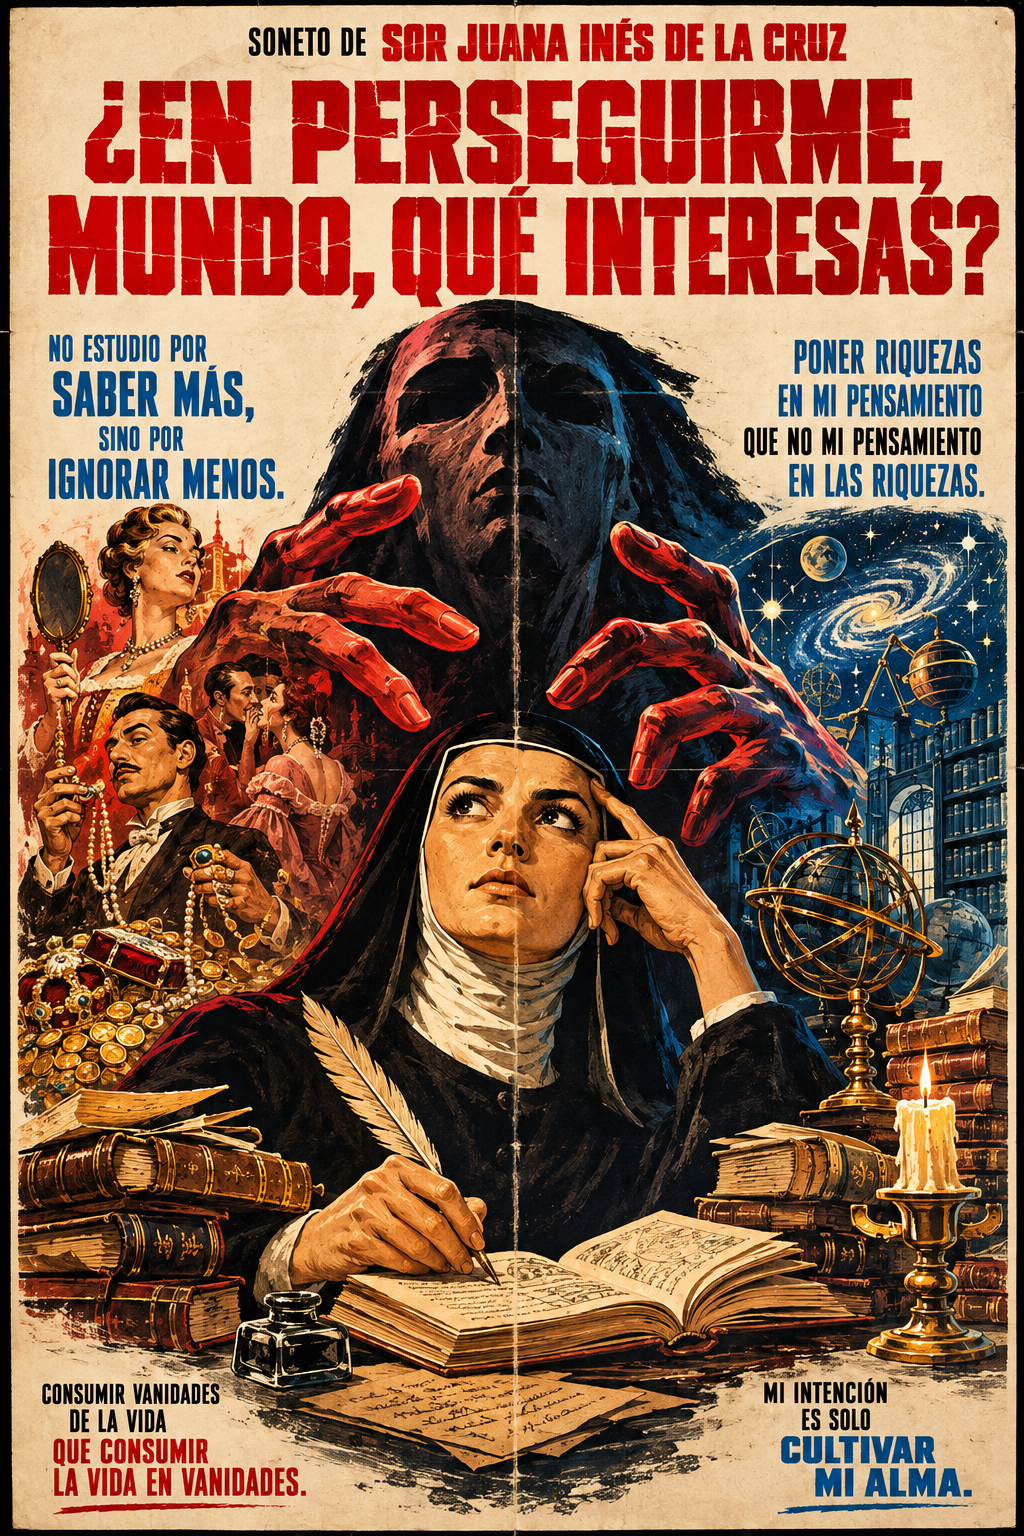
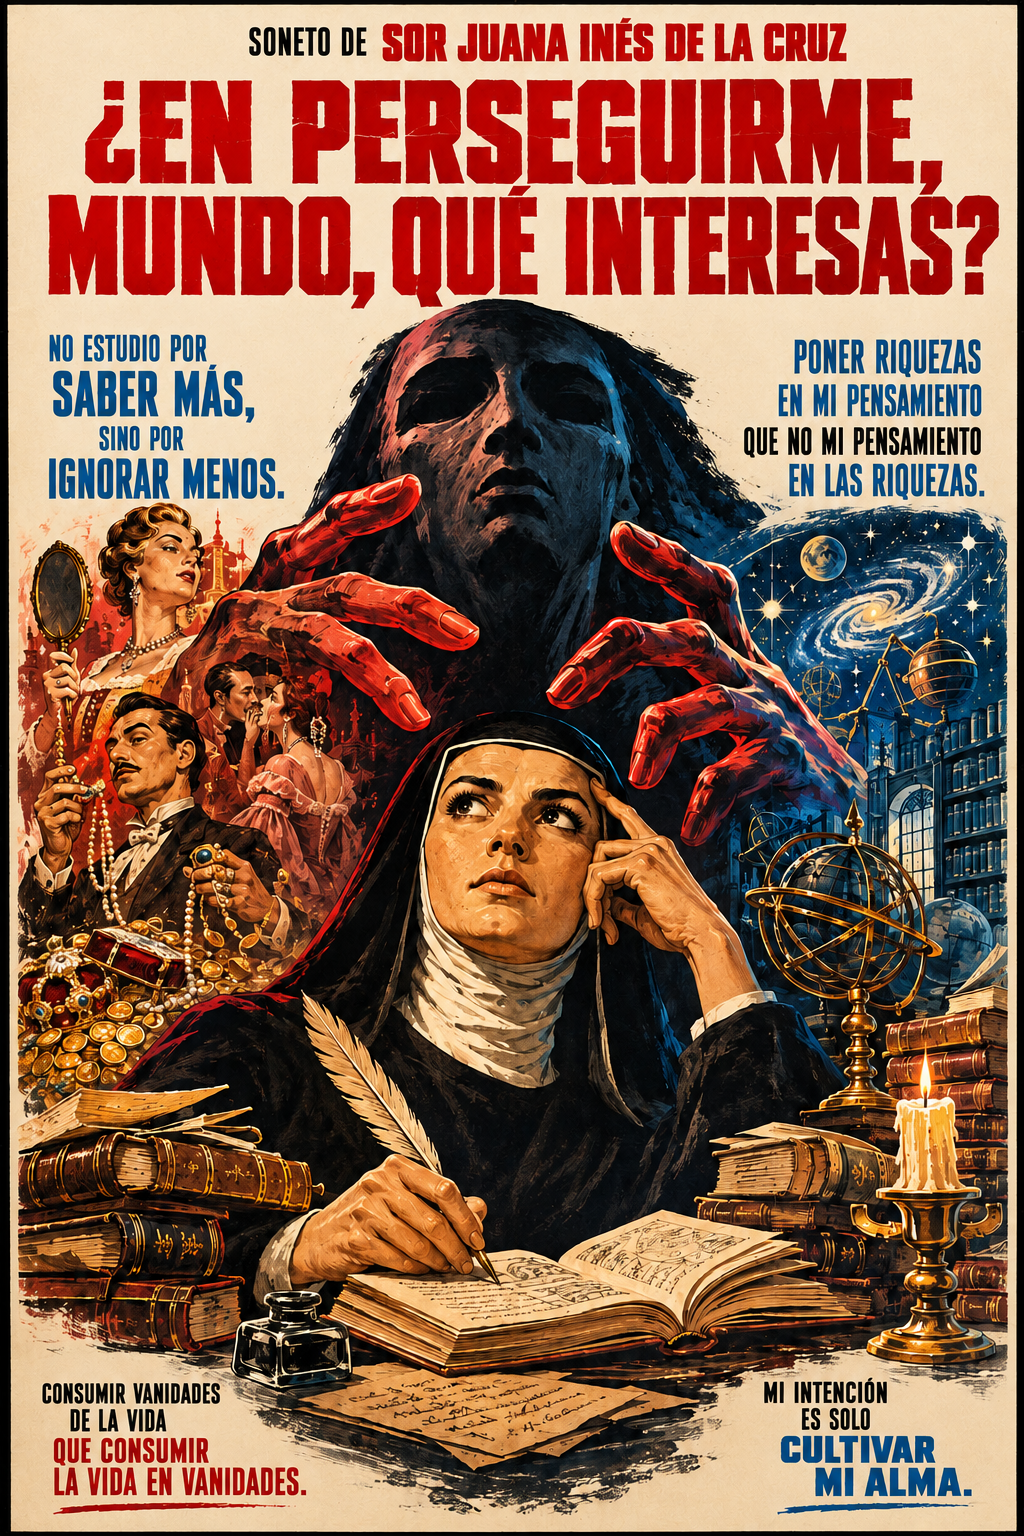
Add Juan de Mairena I & II to OLA 4, refresh six book covers
New: Juan de Mairena and Juan de Mairena II wired into ola-4-slug.html
and book-catalog.js (no detail pages yet).

Replaced cover art for Novelas ejemplares, Cartas de Jamaica, En
perseguirme mundo qué interesas, Las lenguas de diamante, Naufragios,
and Facundo — updating references on their OLA listing cards and
detail pages wherever the filename changed extension.

diff --git a/book-catalog.js b/book-catalog.js
@@ -30,7 +30,7 @@
         { file: "cantinela.png", title: "Cantinela a Lesbia", slug: "cantinela-a-lesbia" },
         { file: "carta-a-luis-de-santangel.png", title: "Carta a Luis de Santángel", slug: "carta-a-luis-de-santangel" },
         { file: "carta-atenagorica.png", title: "Carta atenagórica", slug: "carta-atenagorica" },
-        { file: "cartas-de-jamaica.jpg", title: "Cartas de Jamaica", slug: "cartas-de-jamaica" },
+        { file: "cartas-de-jamaica.png", title: "Cartas de Jamaica", slug: "cartas-de-jamaica" },
         { file: "celestina.jpg", title: "La Celestina", slug: "la-celestina" },
         { file: "comentarios.jpg", title: "Comentarios Reales de los Incas", slug: "comentarios-reales-de-los-incas" },
         { file: "conde-lucanor.jpg", title: "El Conde Lucanor", slug: "el-conde-lucanor" },
@@ -46,15 +46,17 @@
         { file: "el-perro-del-hortelano.png", title: "El perro del hortelano", slug: "el-perro-del-hortelano" },
         { file: "el-trovador.png", title: "El trovador", slug: "el-trovador" },
         { file: "en-perseguirme-mundo.png", title: "¿En perseguirme, Mundo, qué interesas?", slug: "en-perseguirme-mundo-que-interesas" },
-        { file: "facundo.jpg", title: "Facundo o Civilización y Barbarie", slug: "facundo-o-civilizacion-y-barbarie" },
+        { file: "facundo.png", title: "Facundo o Civilización y Barbarie", slug: "facundo-o-civilizacion-y-barbarie" },
         { file: "fin-de-loores-de-santos.png", title: "Fin de loores de santos", slug: "fin-de-loores-de-santos" },
         { file: "fontana-de-oro.jpg", title: "La Fontana de Oro", slug: "la-fontana-de-oro" },
         { file: "fuente-ovejuna.png", title: "Fuente Ovejuna", slug: "fuente-ovejuna" },
+        { file: "juan-de-mairena-dos.png", title: "Juan de Mairena II", slug: "juan-de-mairena-ii" },
+        { file: "juan-de-mairena.png", title: "Juan de Mairena", slug: "juan-de-mairena" },
         { file: "la-flor-de-la-playa.jpg", title: "La flor de la playa", slug: "la-flor-de-la-playa" },
         { file: "la-gallina-degollada.jpg", title: "La gallina degollada", slug: "la-gallina-degollada" },
         { file: "ladron-devoto.jpg", title: "El Ladrón Devoto", slug: "el-ladron-devoto" },
         { file: "lazarillo.jpg", title: "Lazarillo de Tormes", slug: "lazarillo-de-tormes" },
-        { file: "lenguas-diamante.jpg", title: "Las lenguas de diamante", slug: "las-lenguas-de-diamante" },
+        { file: "lenguas-diamante.png", title: "Las lenguas de diamante", slug: "las-lenguas-de-diamante" },
         { file: "los-cuatro-viajes.jpg", title: "Los cuatro viajes del almirante y su testamento", slug: "los-cuatro-viajes-del-almirante-y-su-testamento" },
         { file: "lucia-jerez.png", title: "Lucía Jerez", slug: "lucia-jerez" },
         { file: "mariana-pineda.png", title: "Mariana Pineda", slug: "mariana-pineda" },
@@ -62,7 +64,7 @@
         { file: "misericordia.png", title: "Misericordia", slug: "misericordia" },
         { file: "monja-alferez.jpg", title: "Historia de la Monja Alférez", slug: "historia-de-la-monja-alferez" },
         { file: "natural-historia-de-indias.png", title: "Sumario de la Natural Historia de las Indias", slug: "sumario-de-la-natural-historia-de-las-indias" },
-        { file: "naufragios.jpg", title: "Naufragios", slug: "naufragios" },
+        { file: "naufragios.png", title: "Naufragios", slug: "naufragios" },
         { file: "nezahualcoyotl.jpg", title: "Nezahualcóyotl", slug: "nezahualcoyotl" },
         { file: "niebla.jpg", title: "Niebla", slug: "niebla" },
         { file: "novelas-ejemplares.png", title: "Novelas ejemplares", slug: "novelas-ejemplares" },

diff --git a/Audiolibros/titulos/ola-4-slug.html b/Audiolibros/titulos/ola-4-slug.html
@@ -101,7 +101,7 @@
         </div>
 
         <div class="book">
-            <div class="book-placeholder"><img class="book-cover" src="../../book_covers/lenguas-diamante.jpg" alt="Las lenguas de diamante"></div>
+            <div class="book-placeholder"><img class="book-cover" src="../../book_covers/lenguas-diamante.png" alt="Las lenguas de diamante"></div>
             <div class="book-info">
                 <h3>Las lenguas de diamante</h3>
                 <span class="rating green">4.3/5 <span class="feather-tip"><img src="../../Images/quetzal-feather.svg" alt="Pluma de quetzal" class="rating-feather"></span></span>
@@ -162,6 +162,32 @@
     <div class="review">
         <h3>Resumen</h3>
         <p>Federico García Lorca subtitula esta pieza de 1933 "aleluya erótica" y narra las bodas, tardías y sin amor, entre el envejecido don Perlimplín y la joven y voluptuosa Belisa, orquestadas por la criada Marcolfa. Cuando Belisa lo engaña con cinco amantes bajo cinco antifaces distintos, Perlimplín urde una venganza que es también, a su manera, el único acto de amor verdadero que la obra le permite. Farsa breve, cruel y de una lírica extraña, entre el guiñol y el símbolo, que anticipa la obra trágica mayor de Lorca.</p>
+    </div>
+</div>
+
+<div class="book">
+    <img src="../../book_covers/juan-de-mairena.png" alt="Juan de Mairena" class="book-placeholder">
+    <div class="book-info">
+        <h3>Juan de Mairena</h3>
+        <span class="rating green">4.6/5 <span class="feather-tip"><img src="../../Images/quetzal-feather.svg" alt="Pluma de quetzal" class="rating-feather"></span></span>
+    </div>
+    <span class="listen-btn">ESCUCHAR AHORA</span>
+    <div class="review">
+        <h3>Resumen</h3>
+        <p>Antonio Machado publicó estas sentencias, diálogos y apuntes apócrifos entre 1934 y 1936, primero como artículos en el diario El Sol y luego reunidos en volumen. Juan de Mairena, el profesor de retórica y poética inventado por Machado como heterónimo, dialoga con sus alumnos sobre filosofía, lenguaje, política y el oficio de enseñar, siempre con la ironía socrática que caracteriza al autor. Escrito en la España que se asomaba a la Guerra Civil, es tanto un tratado de pensamiento como un testamento moral.</p>
+    </div>
+</div>
+
+<div class="book">
+    <img src="../../book_covers/juan-de-mairena-dos.png" alt="Juan de Mairena II" class="book-placeholder">
+    <div class="book-info">
+        <h3>Juan de Mairena II</h3>
+        <span class="rating green">4.3/5 <span class="feather-tip"><img src="../../Images/quetzal-feather.svg" alt="Pluma de quetzal" class="rating-feather"></span></span>
+    </div>
+    <span class="listen-btn">ESCUCHAR AHORA</span>
+    <div class="review">
+        <h3>Resumen</h3>
+        <p>Segunda entrega de las sentencias y apuntes del profesor apócrifo, que amplía el corpus de aforismos de Machado con nuevas reflexiones sobre metafísica, identidad personal, cultura española y la relación entre pensamiento y lenguaje. Mairena vuelve sobre la función del poeta y la naturaleza de la realidad con la misma voz irónica y dialogante del primer volumen, cerrando el proyecto de pensamiento apócrifo que Machado inició con Abel Martín. Confirma aquí su máxima más citada: "la verdad es siempre revolucionaria, aun cuando no sea más que una verdad pequeña."</p>
     </div>
 </div>
 

diff --git a/Audiolibros/titulos/ola-3-slug.html b/Audiolibros/titulos/ola-3-slug.html
@@ -75,7 +75,7 @@
     <main id="tapestry">
 
         <div class="book">
-            <div class="book-placeholder"><img class="book-cover" src="../../book_covers/cartas-de-jamaica.jpg" alt="Cartas de Jamaica"></div>
+            <div class="book-placeholder"><img class="book-cover" src="../../book_covers/cartas-de-jamaica.png" alt="Cartas de Jamaica"></div>
             <div class="book-info">
                 <h3>Cartas de Jamaica</h3>
                 <span class="rating green">3.7/5 <span class="feather-tip"><img src="../../Images/quetzal-feather.svg" alt="Pluma de quetzal" class="rating-feather"></span></span>
@@ -88,7 +88,7 @@
         </div>
 
         <div class="book">
-            <div class="book-placeholder"><img class="book-cover" src="../../book_covers/facundo.jpg" alt="Facundo o Civilización y Barbarie"></div>
+            <div class="book-placeholder"><img class="book-cover" src="../../book_covers/facundo.png" alt="Facundo o Civilización y Barbarie"></div>
             <div class="book-info">
                 <h3>Facundo o Civilización y Barbarie</h3>
                 <span class="rating green">4.6/5 <span class="feather-tip"><img src="../../Images/quetzal-feather.svg" alt="Pluma de quetzal" class="rating-feather"></span></span>

diff --git a/Audiolibros/titulos/ola-2-slug.html b/Audiolibros/titulos/ola-2-slug.html
@@ -127,7 +127,7 @@
         </div>
 
         <div class="book">
-            <div class="book-placeholder"><img class="book-cover" src="../../book_covers/naufragios.jpg" alt="Naufragios"></div>
+            <div class="book-placeholder"><img class="book-cover" src="../../book_covers/naufragios.png" alt="Naufragios"></div>
             <div class="book-info">
                 <h3>Naufragios</h3>
                 <span class="rating green">4.9/5 <span class="feather-tip"><img src="../../Images/quetzal-feather.svg" alt="Pluma de quetzal" class="rating-feather"></span></span>

diff --git a/Audiolibros/titulos/facundo-o-civilizacion-y-barbarie.html b/Audiolibros/titulos/facundo-o-civilizacion-y-barbarie.html
@@ -94,7 +94,7 @@
         <svg class="x" style="width:24px;height:24px" viewBox="0 0 24 24">
             <path fill="white" d="M19,6.41L17.59,5L12,10.59L6.41,5L5,6.41L10.59,12L5,17.59L6.41,19L12,13.41L17.59,19L19,17.59L13.41,12L19,6.41Z" />
         </svg>
-        <img src="../../book_covers/facundo.jpg" alt="Facundo o Civilización y Barbarie">
+        <img src="../../book_covers/facundo.png" alt="Facundo o Civilización y Barbarie">
         <div class="controls">
             <div class="box">Escucha ahora</div>
         </div>

diff --git a/Audiolibros/titulos/las-lenguas-de-diamante.html b/Audiolibros/titulos/las-lenguas-de-diamante.html
@@ -94,7 +94,7 @@
         <svg class="x" style="width:24px;height:24px" viewBox="0 0 24 24">
             <path fill="white" d="M19,6.41L17.59,5L12,10.59L6.41,5L5,6.41L10.59,12L5,17.59L6.41,19L12,13.41L17.59,19L19,17.59L13.41,12L19,6.41Z" />
         </svg>
-        <img src="../../book_covers/lenguas-diamante.jpg" alt="Las lenguas de diamante">
+        <img src="../../book_covers/lenguas-diamante.png" alt="Las lenguas de diamante">
         <div class="controls">
             <div class="box">Escucha ahora</div>
         </div>

diff --git a/Audiolibros/titulos/cartas-de-jamaica.html b/Audiolibros/titulos/cartas-de-jamaica.html
@@ -94,7 +94,7 @@
         <svg class="x" style="width:24px;height:24px" viewBox="0 0 24 24">
             <path fill="white" d="M19,6.41L17.59,5L12,10.59L6.41,5L5,6.41L10.59,12L5,17.59L6.41,19L12,13.41L17.59,19L19,17.59L13.41,12L19,6.41Z" />
         </svg>
-        <img src="../../book_covers/cartas-de-jamaica.jpg" alt="Cartas de Jamaica">
+        <img src="../../book_covers/cartas-de-jamaica.png" alt="Cartas de Jamaica">
         <div class="controls">
             <div class="box">Escucha ahora</div>
         </div>

diff --git a/Audiolibros/titulos/naufragios.html b/Audiolibros/titulos/naufragios.html
@@ -94,7 +94,7 @@
         <svg class="x" style="width:24px;height:24px" viewBox="0 0 24 24">
             <path fill="white" d="M19,6.41L17.59,5L12,10.59L6.41,5L5,6.41L10.59,12L5,17.59L6.41,19L12,13.41L17.59,19L19,17.59L13.41,12L19,6.41Z" />
         </svg>
-        <img src="../../book_covers/naufragios.jpg" alt="Naufragios">
+        <img src="../../book_covers/naufragios.png" alt="Naufragios">
         <div class="controls">
             <div class="box">Escucha ahora</div>
         </div>
